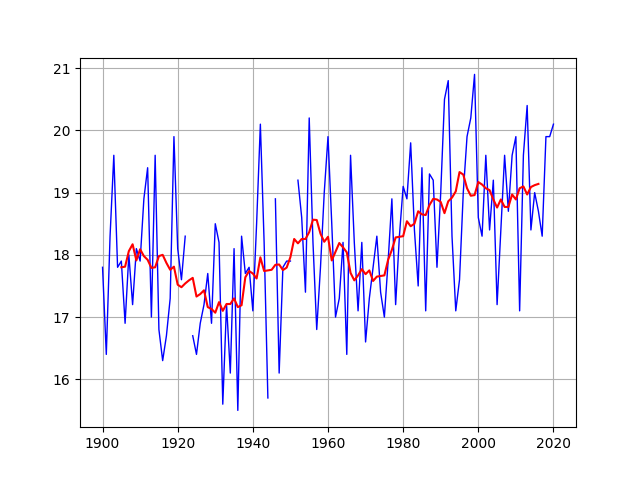
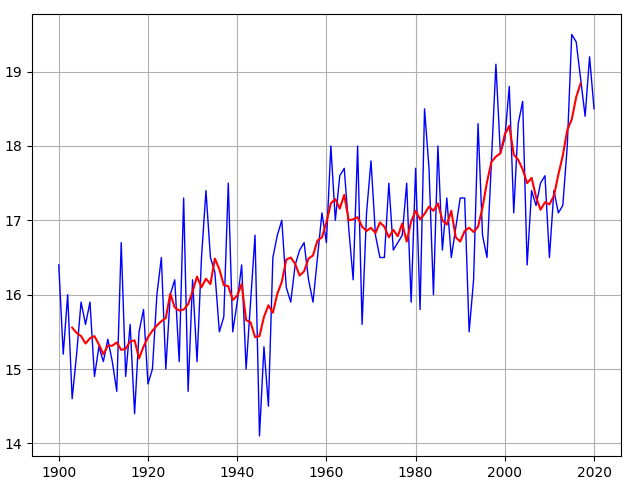
add variation and triming

diff --git a/data/htdocs/weather_app/src/Controller/TempertureController.php b/data/htdocs/weather_app/src/Controller/TempertureController.php
@@ -1,6 +1,7 @@
 <?php
 namespace App\Controller;
 use App\Controller\AppController;
+use Cake\Core\Configure;
 
 class TempertureController extends AppController {
     public function initialize() {
@@ -8,13 +9,24 @@ class TempertureController extends AppController {
     }
 
     public function index() {
+        // 都市かなリスト取得
+        $cityKana = Configure::read('cityKana');
+
         // 選択場所リスト取得
         $dirList = glob(PYTHON_DATA_TEMP . '*');
         foreach($dirList as $dir) {
             $cityName = basename($dir, '.csv');
-            $cityList[$cityName] = $cityName;
+            $cityList[$cityName] = $cityKana[$cityName];
         }
-        $this->set(compact('cityList'));
+        // 月リスト取得
+        foreach(range(1,12) as $i){
+            $monthList[$i] = $i . "月";
+        }
+        // 移動平均期間
+        foreach(range(1,20) as $i){
+            $period[$i] = $i . "期間";
+        }
+        $this->set(compact('cityList', 'monthList', 'period'));
 
         // 選択場所の気温情報取得
         $city = $this->request->query('city');
@@ -24,7 +36,7 @@ class TempertureController extends AppController {
         $data=[];
         if(!empty($output)) {
             $data['image'] = $output[0];
-            $data['city'] = $city;
+            $data['city'] = $cityKana[$city];
         }
         $this->set(compact('data'));
     }

diff --git a/data/htdocs/weather_app/src/Python/script/displayMonthData.py b/data/htdocs/weather_app/src/Python/script/displayMonthData.py
@@ -26,6 +26,7 @@ plt.plot(values['year'], values['value'], color="blue", linewidth=1, linestyle="
 if(runningMeanPeriod != 0):
     plt.plot(values['year'], runningMeanValue, color="red", linewidth=1.5, linestyle="-")
 plt.grid()
+plt.subplots_adjust(left=0.05, right=0.97, bottom=0.05, top=0.97)
 imagePath = const.IMG_PATH + const.TMP_IMG
 fig.savefig(imagePath)
 

diff --git a/data/htdocs/weather_app/config/const.php b/data/htdocs/weather_app/config/const.php
@@ -1,5 +1,8 @@
-// city
-define('kanazawa', '金沢');
-define('naha', '那覇');
-define('osaka', '大阪');
-define('sapporo', '札幌');
+<?php
+use Cake\Core\Configure;
+
+return [
+    Configure::write([
+        'cityKana' => ['kanazawa'=>'金沢', 'naha'=>'那覇', 'osaka'=>'大阪', 'sapporo'=>'札幌']
+    ])
+];
